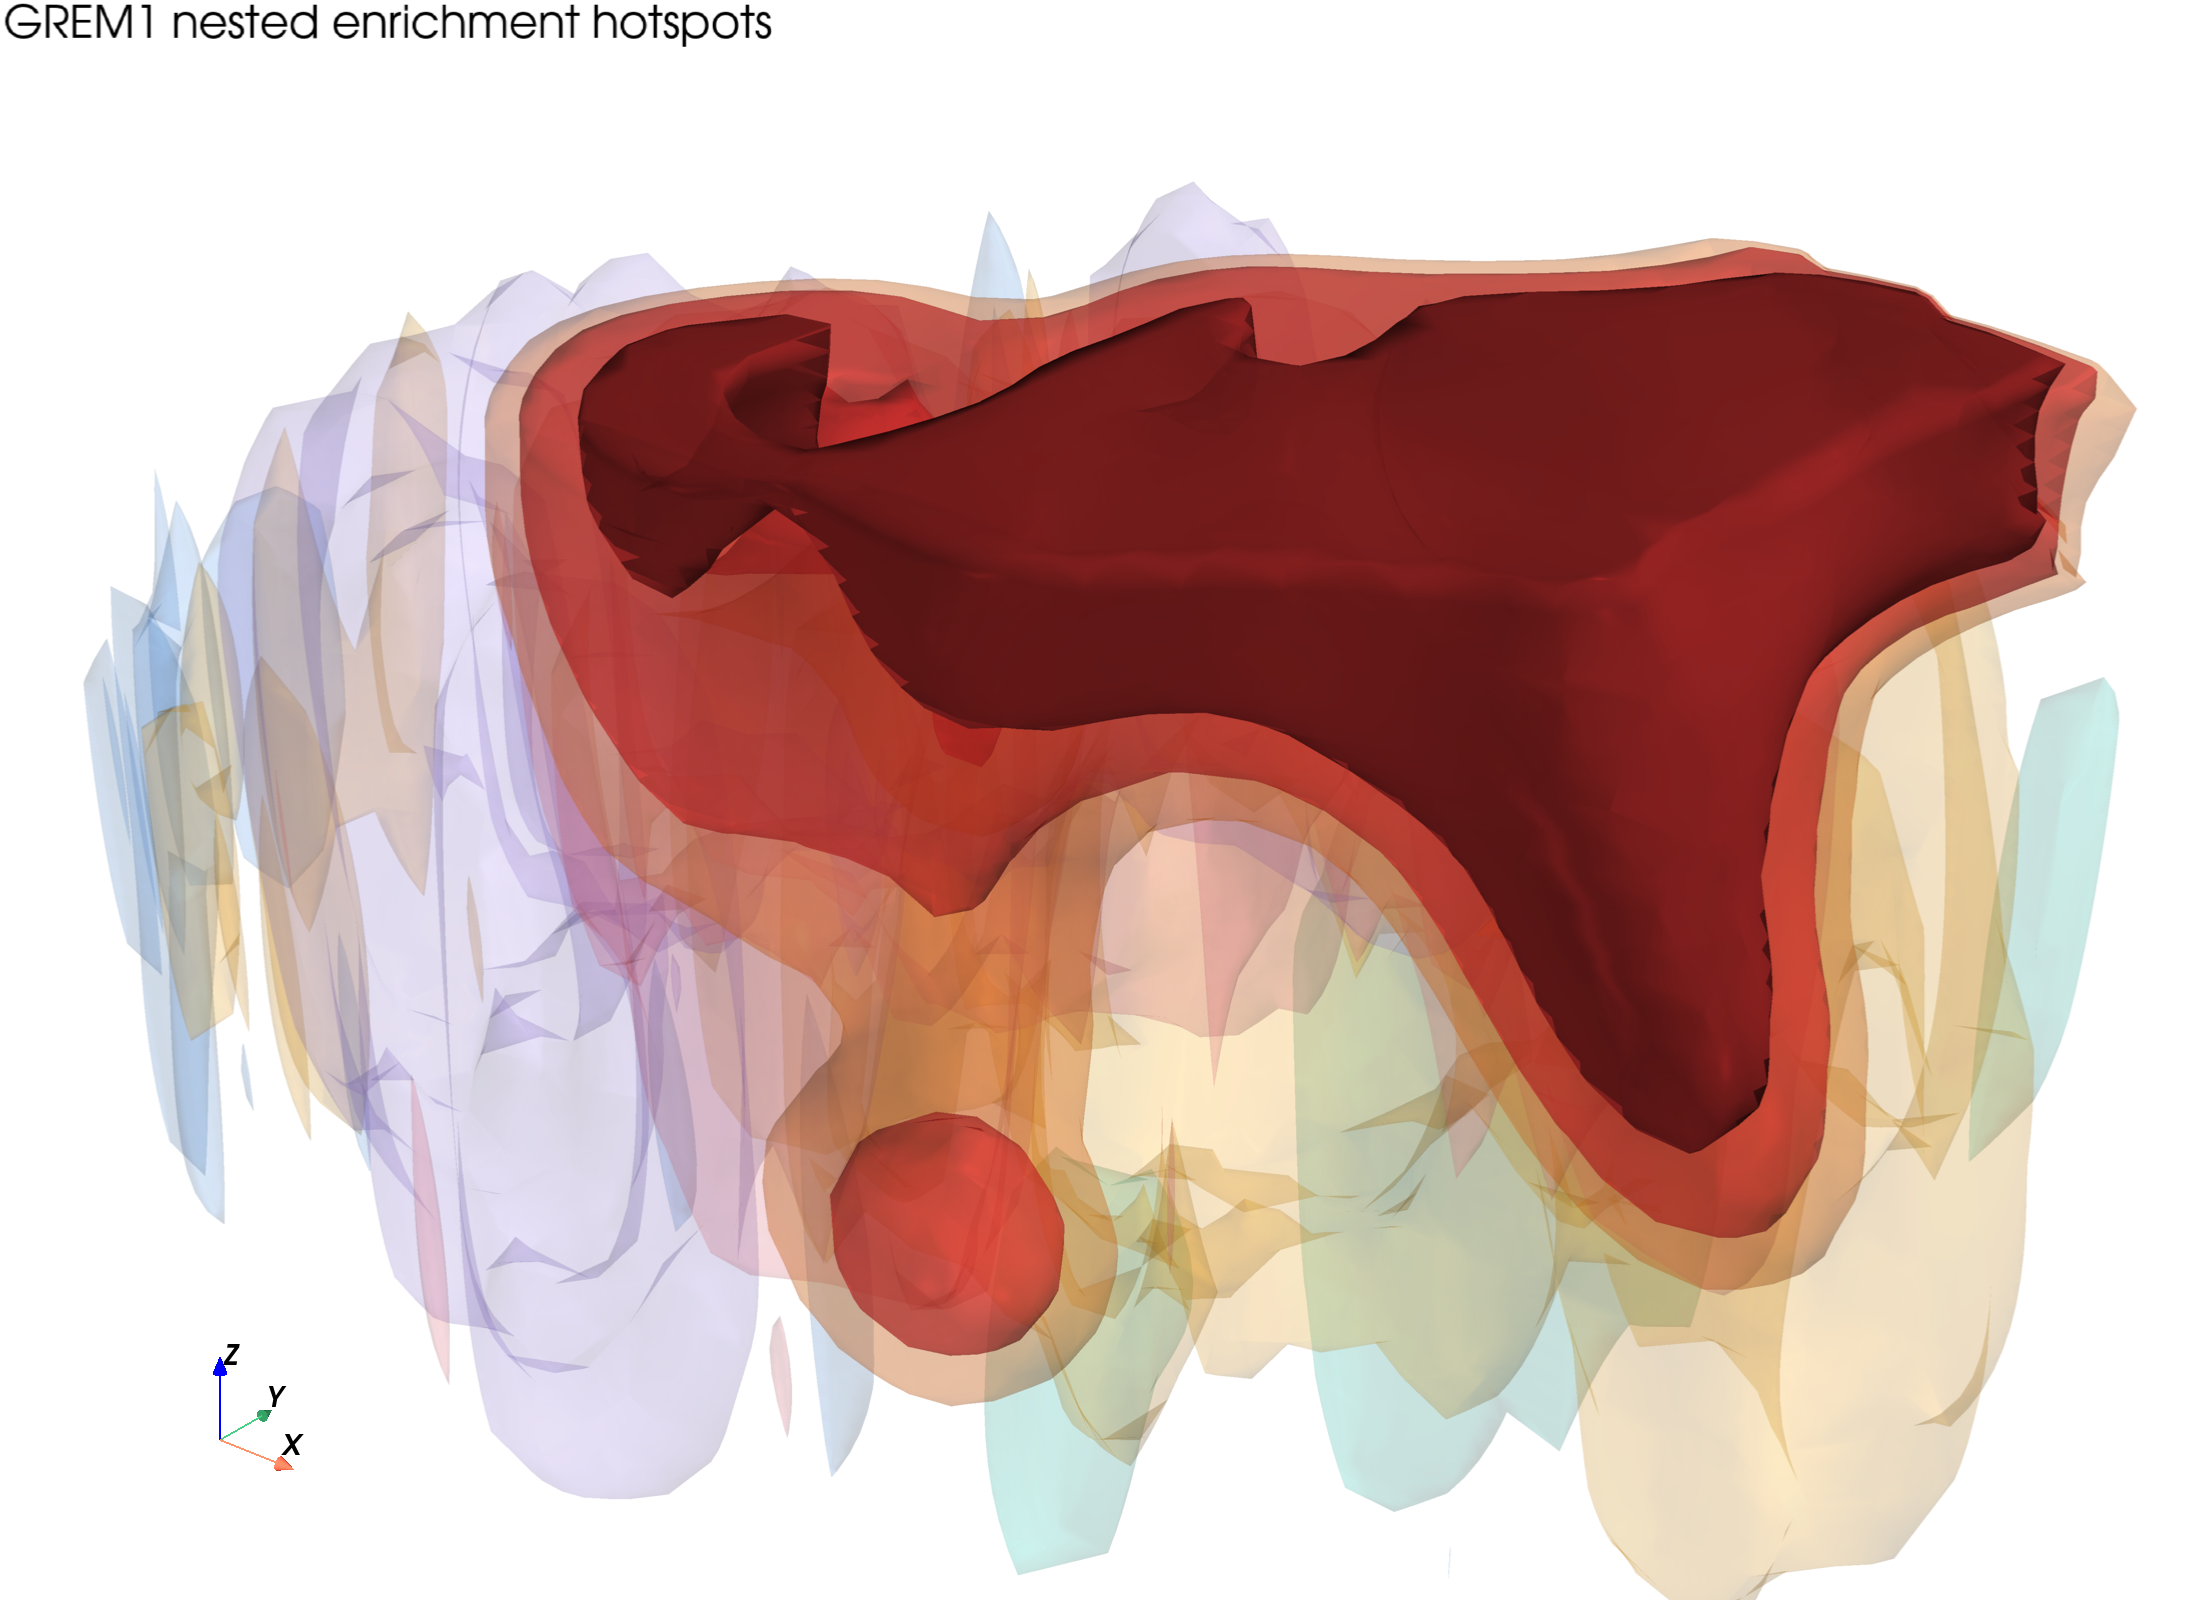
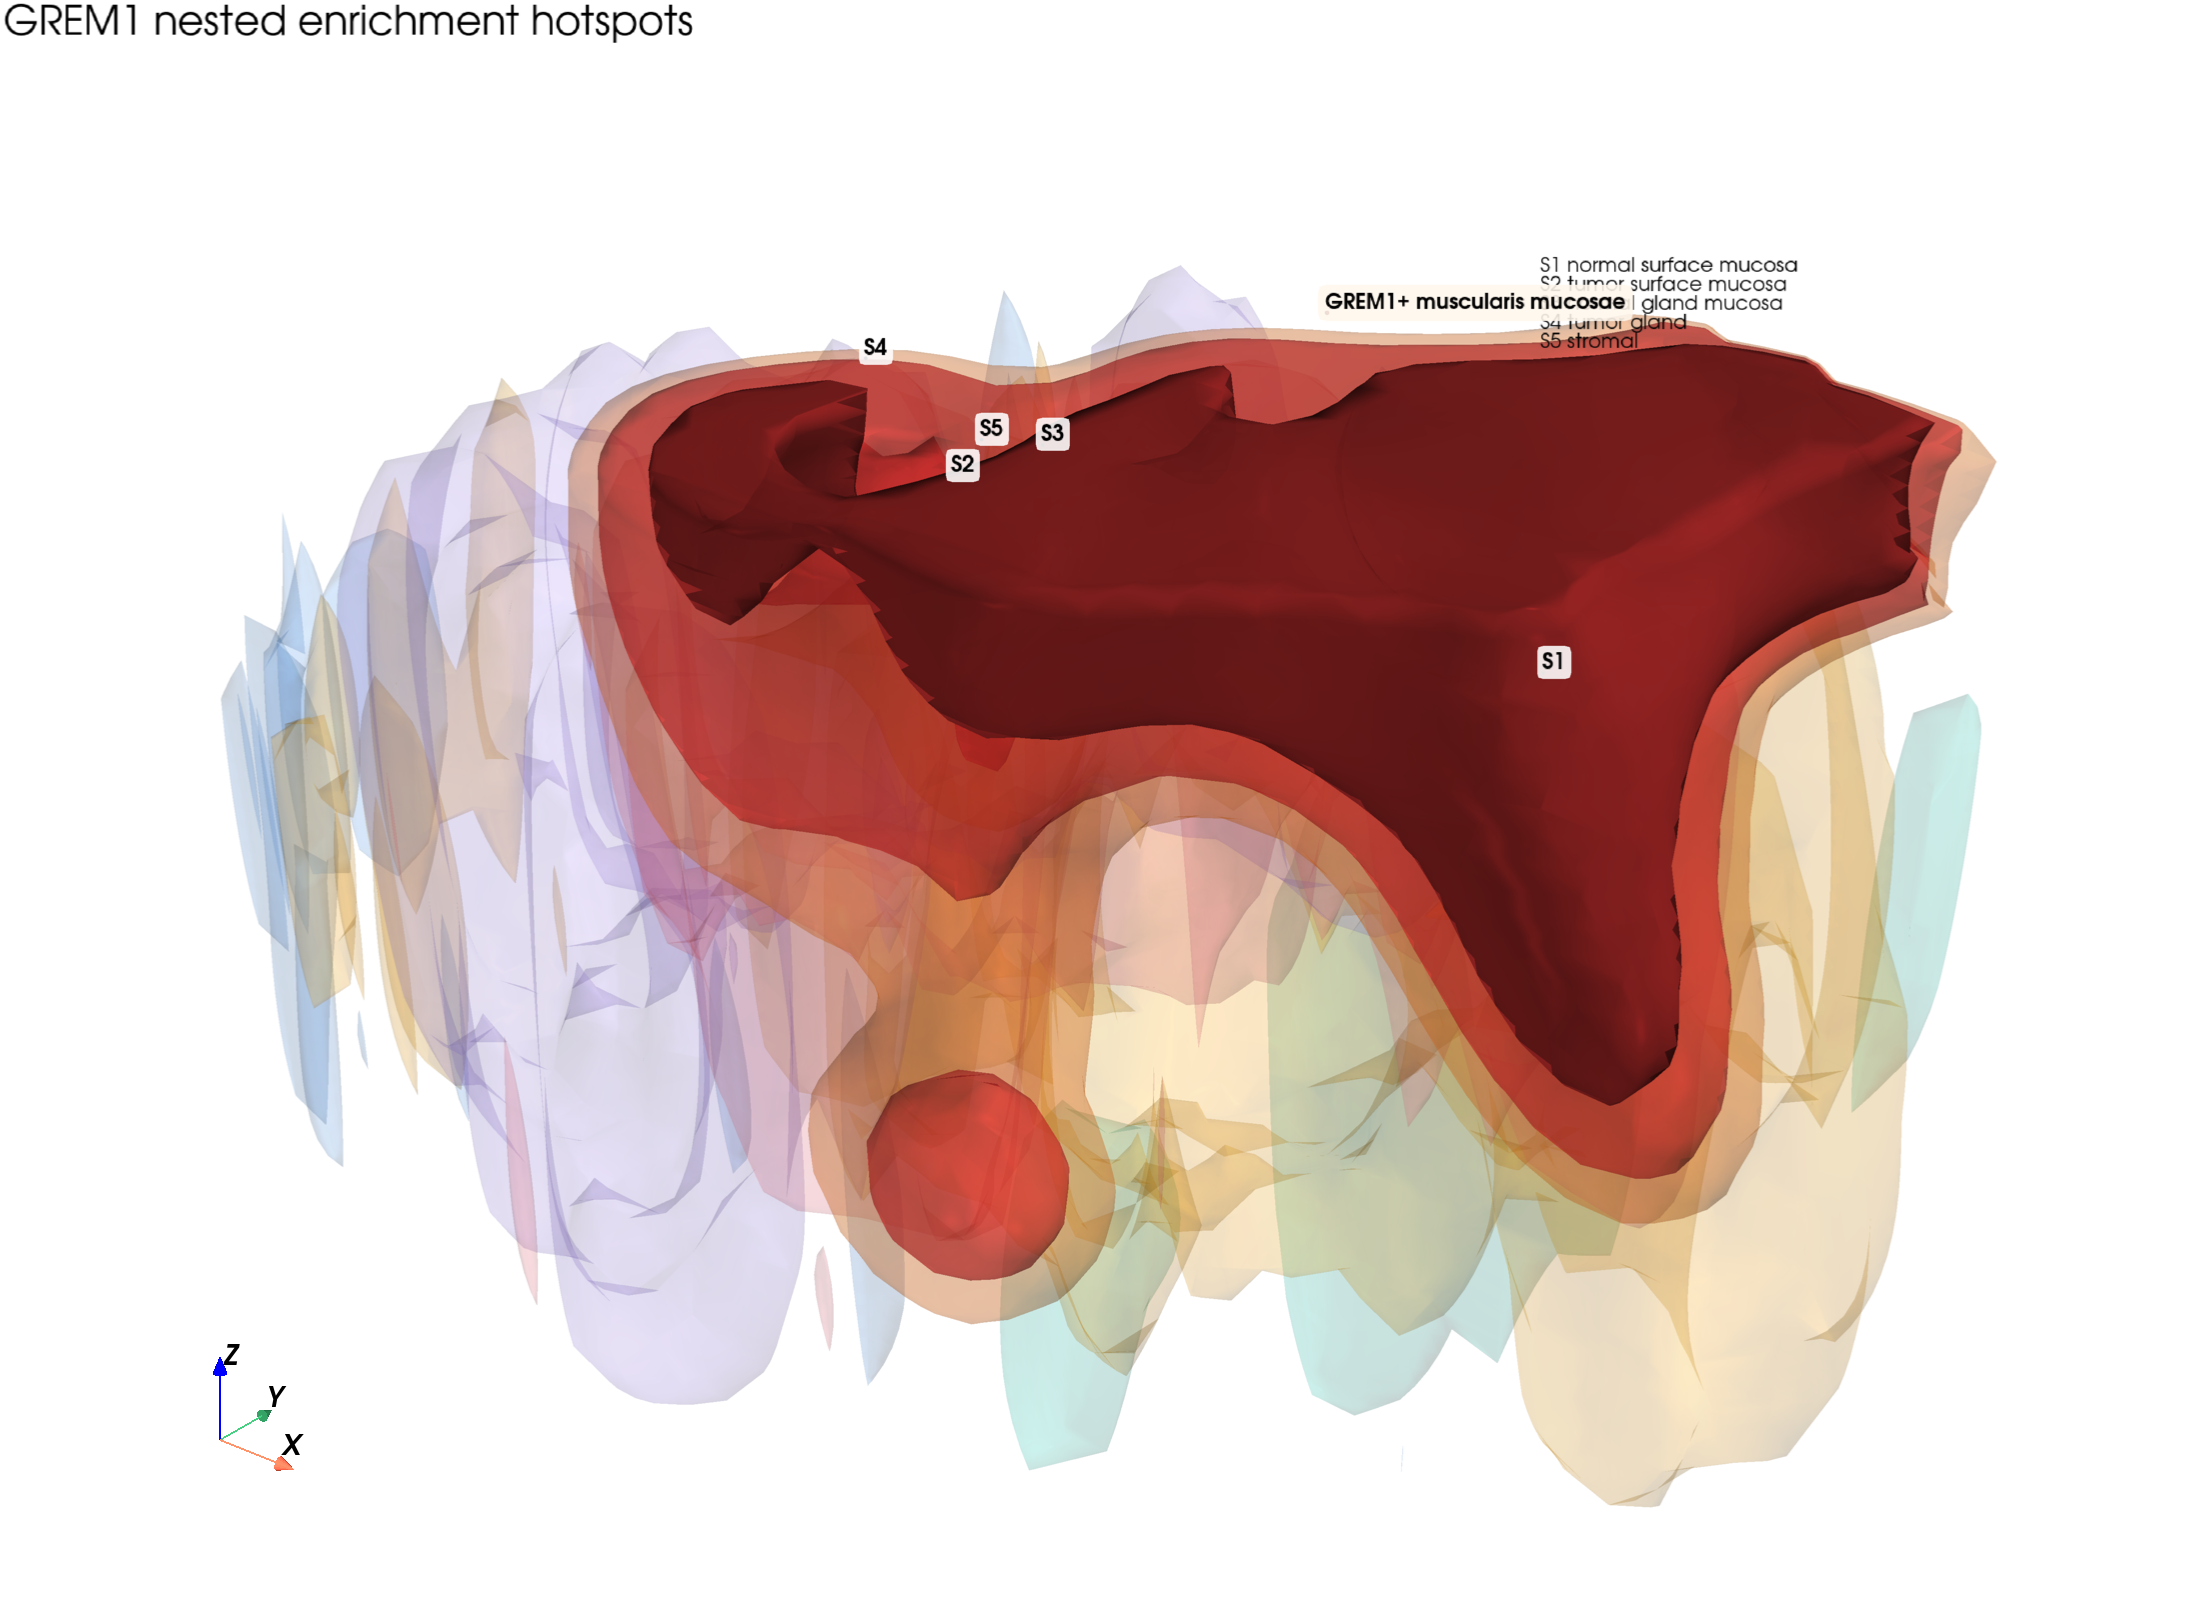
docs: annotate polyp 3d tutorial source and structures

diff --git a/scripts/render_polyp_24gene_figures.py b/scripts/render_polyp_24gene_figures.py
@@ -13,6 +13,14 @@ STRUCTURE_COLORS = {
     "Structure 5": "#fb7185",
 }
 
+STRUCTURE_ANNOTATIONS = {
+    "Structure 1": ("S1", "normal surface mucosa"),
+    "Structure 2": ("S2", "tumor surface mucosa"),
+    "Structure 3": ("S3", "normal gland mucosa"),
+    "Structure 4": ("S4", "tumor gland"),
+    "Structure 5": ("S5", "stromal"),
+}
+
 GREM1_SURFACES = {
     "top15": {"color": "#f97316", "opacity": 0.22},
     "top10": {"color": "#dc2626", "opacity": 0.42},
@@ -61,6 +69,16 @@ def _mesh_bounds(meshes):
     return (xmin, xmax, ymin, ymax, zmin, zmax), center, size
 
 
+def _structure_label(name: str) -> str:
+    short, display = STRUCTURE_ANNOTATIONS.get(name, (name, name))
+    return f"{short} {display}"
+
+
+def _structure_short_label(name: str) -> str:
+    short, _display = STRUCTURE_ANNOTATIONS.get(name, (name, name))
+    return short
+
+
 def _camera(meshes, preset: str):
     bounds, center, size = _mesh_bounds(meshes)
     if preset == "dorsal":
@@ -96,8 +114,53 @@ def _add_structures(plotter, structure_meshes, *, opacity: float, show_edges: bo
             specular=0.18,
             roughness=0.55,
             show_edges=show_edges,
-            label=name,
+            label=_structure_label(name),
         )
+
+
+def _add_structure_labels(plotter, structure_meshes, *, text_color: str):
+    import numpy as np
+
+    if not structure_meshes:
+        return
+    _, _, size = _mesh_bounds(structure_meshes.values())
+    points = []
+    labels = []
+    for name, mesh in structure_meshes.items():
+        xmin, xmax, ymin, ymax, _zmin, zmax = mesh.bounds
+        points.append(
+            [
+                (xmin + xmax) / 2,
+                (ymin + ymax) / 2,
+                zmax + size * 0.025,
+            ]
+        )
+        labels.append(_structure_short_label(name))
+    plotter.add_point_labels(
+        np.asarray(points, dtype=float),
+        labels,
+        font_size=22,
+        text_color=text_color,
+        point_color="#111827",
+        point_size=8,
+        shape_color="#ffffff",
+        shape_opacity=0.88,
+        margin=6,
+        always_visible=True,
+        render_points_as_spheres=True,
+    )
+
+
+def _add_structure_legend(plotter, *, text_color: str):
+    text = "\n".join(_structure_label(name) for name in STRUCTURE_ANNOTATIONS)
+    plotter.add_text(
+        text,
+        position=(0.70, 0.78),
+        viewport=True,
+        font_size=10,
+        color=text_color,
+    )
+
 
 
 def _add_grem1(plotter, grem1_meshes, levels):
@@ -116,9 +179,36 @@ def _add_grem1(plotter, grem1_meshes, levels):
         )
 
 
+def _add_grem1_label(plotter, grem1_meshes, *, text_color: str):
+    import numpy as np
+
+    if "top05" not in grem1_meshes:
+        return
+    mesh = grem1_meshes["top05"]
+    xmin, xmax, ymin, ymax, _zmin, zmax = mesh.bounds
+    _, _, size = _mesh_bounds([mesh])
+    point = np.asarray(
+        [[(xmin + xmax) / 2, (ymin + ymax) / 2, zmax + size * 0.10]],
+        dtype=float,
+    )
+    plotter.add_point_labels(
+        point,
+        ["GREM1+ muscularis mucosae"],
+        font_size=21,
+        text_color=text_color,
+        point_color="#7f1d1d",
+        point_size=10,
+        shape_color="#fff7ed",
+        shape_opacity=0.88,
+        margin=8,
+        always_visible=True,
+        render_points_as_spheres=True,
+    )
+
+
 def _render(plotter, meshes, out_path: Path, preset: str, transparent: bool):
     plotter.camera_position = _camera(meshes, preset)
-    plotter.camera.zoom(1.08)
+    plotter.camera.zoom(0.94)
     plotter.enable_anti_aliasing("ssaa")
     plotter.add_axes(line_width=2, labels_off=False)
     plotter.screenshot(out_path, transparent_background=transparent)
@@ -152,7 +242,9 @@ def render_figures(args) -> list[Path]:
         out = args.out_dir / "polyp_3d_structure_surfaces.png"
         plotter = _new_plotter(pv, args)
         _add_structures(plotter, structure_meshes, opacity=0.44, show_edges=False)
-        plotter.add_text("Polyp 3D contour surfaces", font_size=18, color=args.text_color)
+        _add_structure_labels(plotter, structure_meshes, text_color=args.text_color)
+        _add_structure_legend(plotter, text_color=args.text_color)
+        plotter.add_text("Polyp 3D contour surfaces with biological annotations", font_size=16, color=args.text_color)
         _render(plotter, list(structure_meshes.values()), out, args.camera_preset, args.transparent_background)
         outputs.append(out)
 
@@ -160,8 +252,11 @@ def render_figures(args) -> list[Path]:
         out = args.out_dir / f"{args.gene}_nested_3d_hotspot_surfaces.png"
         plotter = _new_plotter(pv, args)
         _add_structures(plotter, structure_meshes, opacity=0.13, show_edges=False)
+        _add_structure_labels(plotter, structure_meshes, text_color=args.text_color)
+        _add_structure_legend(plotter, text_color=args.text_color)
         _add_grem1(plotter, grem1_meshes, ["top15", "top10", "top05"])
-        plotter.add_text(f"{args.gene} nested enrichment hotspots", font_size=18, color=args.text_color)
+        _add_grem1_label(plotter, grem1_meshes, text_color=args.text_color)
+        plotter.add_text(f"{args.gene} nested enrichment hotspots", font_size=16, color=args.text_color)
         _render(plotter, all_meshes, out, args.camera_preset, args.transparent_background)
         outputs.append(out)
 
@@ -169,16 +264,18 @@ def render_figures(args) -> list[Path]:
         out = args.out_dir / f"{args.gene}_structure5_focus.png"
         plotter = _new_plotter(pv, args)
         _add_structures(plotter, {"Structure 5": structure_meshes["Structure 5"]}, opacity=0.24, show_edges=False)
+        _add_structure_labels(plotter, {"Structure 5": structure_meshes["Structure 5"]}, text_color=args.text_color)
         if "Structure 3" in structure_meshes:
             plotter.add_mesh(
                 structure_meshes["Structure 3"],
                 color=STRUCTURE_COLORS["Structure 3"],
                 opacity=0.08,
                 smooth_shading=True,
-                label="Structure 3",
-            )
+                label=_structure_label("Structure 3"),
+        )
         _add_grem1(plotter, grem1_meshes, ["top15", "top10", "top05"])
-        plotter.add_text(f"{args.gene} hotspot embedded in Structure 5", font_size=18, color=args.text_color)
+        _add_grem1_label(plotter, grem1_meshes, text_color=args.text_color)
+        plotter.add_text(f"{args.gene}+ muscularis mucosae isosurface in S5 stromal", font_size=15, color=args.text_color)
         _render(plotter, [structure_meshes["Structure 5"], *grem1_meshes.values()], out, "structure5_focus", args.transparent_background)
         outputs.append(out)
 

diff --git a/docs/tutorials/polyp_24_gene_3d_spatial_modules.md b/docs/tutorials/polyp_24_gene_3d_spatial_modules.md
@@ -23,6 +23,14 @@ registered 32-slice contour stack:
 - `meshes/Structure_1.ply` through `meshes/Structure_5.ply`
 - a merged AnnData `.h5ad` containing expression for all aligned cells
 
+The 32-slice Xenium input is from the Snyder Lab
+[Space-map study page](https://snyderlabs.stanford.edu/spacemap/), with the 3D
+Xenium Spatial Transcriptomics input data linked through the
+[HTAN Data Portal](https://data.humantumoratlas.org/publications/hta6_2025_tbd_rongduo-han?tab=10x-xenium-iss).
+The Space-map documentation describes serial-section single-cell 3D tissue
+reconstruction; this HistoSeg tutorial starts from the aligned contour stack and
+focuses on gene-structure spatial modules.
+
 The starter panel covers stromal, epithelial, proliferative, immune, vascular,
 and perivascular signals:
 
@@ -55,6 +63,16 @@ For this starter panel all 24 genes completed successfully.
 
 The structure surfaces are reconstructed by voxelizing aligned 2D contour
 polygons, smoothing the 3D volume, and extracting a Marching Cubes surface.
+The computational `Structure N` labels are annotated in this polyp tutorial as
+biological tissue compartments:
+
+| Short label | Computational label | Biological annotation |
+| --- | --- | --- |
+| S1 | Structure 1 | Normal surface mucosa |
+| S2 | Structure 2 | Tumor surface mucosa |
+| S3 | Structure 3 | Normal gland mucosa |
+| S4 | Structure 4 | Tumor gland |
+| S5 | Structure 5 | Stromal |
 
 ![Polyp 3D contour surfaces](../_static/threed/polyp/24gene/polyp_3d_structure_surfaces.png)
 
@@ -70,7 +88,9 @@ enrichment field.
 
 ![GREM1 nested 3D hotspot surfaces](../_static/threed/polyp/24gene/GREM1_nested_3d_hotspot_surfaces.png)
 
-The GREM1 top 5% core is visually embedded inside Structure 5.
+The GREM1 top 5% core is visually embedded inside the S5 stromal compartment,
+supporting the interpretation of a GREM1+ muscularis mucosae-associated
+isosurface in this reconstruction.
 
 ![GREM1 Structure 5 focus](../_static/threed/polyp/24gene/GREM1_structure5_focus.png)
 
@@ -107,13 +127,14 @@ inside each 3D structure.
 In this run:
 
 - `GREM1`, `FAP`, `TAGLN`, `ACTA2`, and `COL1A1/COL1A2` localize strongly to
-  Structure 5, matching a stromal/fibrotic compartment.
+  S5 / Structure 5, matching a stromal compartment with a GREM1+ muscularis
+  mucosae-associated isosurface.
 - `MUC2`, `OLFM4`, and `MKI67` are enriched around Structure 3, matching a
-  differentiated/proliferative epithelial compartment.
+  normal gland mucosa-associated epithelial compartment.
 - `LGR5` and `EPCAM` are prominent around Structure 4, consistent with an
-  epithelial/stem-like niche.
+  epithelial/stem-like tumor gland niche.
 - `C1QA` and `PDGFRA` show a Structure 2 signal, suggesting a macrophage or
-  perivascular-associated compartment.
+  perivascular-associated tumor surface mucosa compartment.
 
 The signed-distance matrix gives a complementary view. Negative row-normalized
 values indicate structures where the hotspot is physically embedded rather than

diff --git a/docs/tutorials/3d_stack_reconstruction.md b/docs/tutorials/3d_stack_reconstruction.md
@@ -23,6 +23,14 @@ were discovered in numeric order:
 `A079-C-008_1` through `A079-C-008_16`, then `A079-C-008_25` through
 `A079-C-008_40`.
 
+The dataset comes from the Snyder Lab
+[Space-map study page](https://snyderlabs.stanford.edu/spacemap/), which links
+the 3D Xenium Spatial Transcriptomics input data through the
+[HTAN Data Portal](https://data.humantumoratlas.org/publications/hta6_2025_tbd_rongduo-han?tab=10x-xenium-iss).
+Space-map describes atlas-level single-cell 3D tissue reconstruction from
+serial sections; HistoSeg uses the ordered Xenium slices as input for contour
+extraction, topology-aware alignment, and surface reconstruction.
+
 The structure definition came from a segmentation strategy file with one line
 per structure:
 
